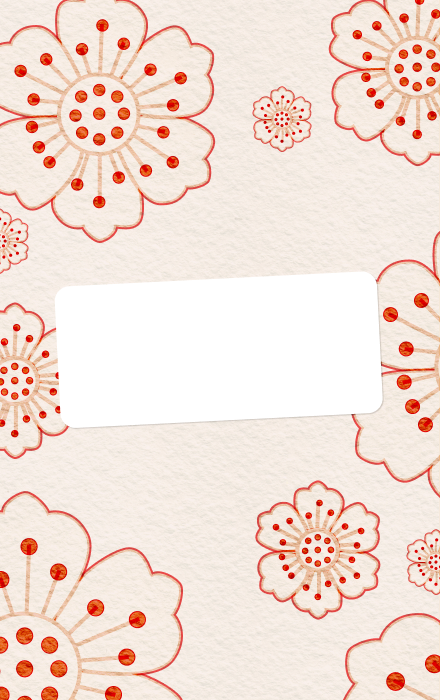
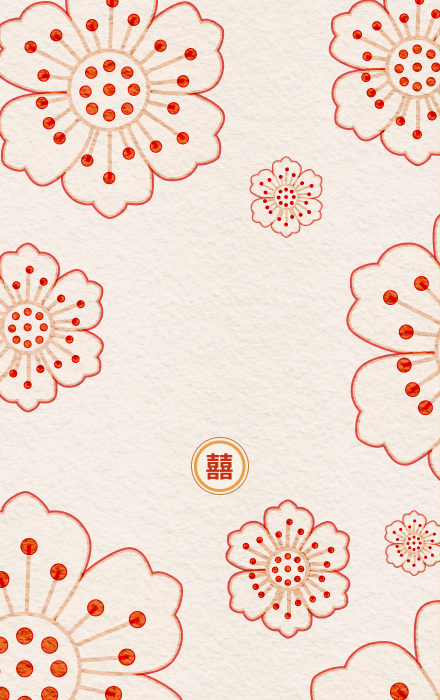
V2

Changed region(s): [[0.0, 0.0, 1.0, 1.0], [0.5614, 0.12, 0.7386, 0.36], [0.6795, 0.96, 0.7386, 1.0]]

diff --git a/index.html b/index.html
@@ -1,25 +1,19 @@
 <!DOCTYPE html>
-<html lang="zh">
+<html lang="fr">
   <head>
     <meta charset="UTF-8" />
     <meta name="viewport" content="width=device-width, initial-scale=1.0" />
     <title>Chinese Wedding Envelope</title>
-    <link href="https://fonts.googleapis.com/css2?family=Noto+Serif+SC:wght@400;700&display=swap" rel="stylesheet" />
-    <link
-      href="https://fonts.googleapis.com/css2?family=Noto+Serif+SC:wght@400;700&family=Fira+Sans:wght@400;700&family=Meow+Script&display=swap"
-      rel="stylesheet"
-    />
-
+    <link href="https://fonts.googleapis.com/css2?family=Meow+Script&display=swap" rel="stylesheet" />
     <script src="https://cdn.tailwindcss.com"></script>
     <script>
+      // Tailwind custom configuration
       tailwind.config = {
         theme: {
           extend: {
             fontFamily: {
               meow: ['"Meow Script"', "cursive"],
-              chinese: ['"Noto Serif SC"', "serif"],
-              kuai: ['"ZCOOL KuaiLe"', "cursive"],
-              futura: ["Futura", '"Fira Sans"', "Arial", "sans-serif"],
+              futura: ["Futura", "Arial", "sans-serif"],
             },
             keyframes: {
               "slide-down-out": {
@@ -52,9 +46,7 @@
     class="min-h-screen flex items-center justify-center bg-[#f5f0eb] bg-center bg-no-repeat bg-cover"
     style="background-image: url('./background.png')"
   >
-    <!-- Petals container -->
     <div class="fixed inset-0 pointer-events-none z-50 petals-container" aria-hidden="true"></div>
-    <!-- Fireworks container -->
     <div class="fixed inset-0 pointer-events-none z-[60] confetti-container" aria-hidden="true"></div>
     <div class="container flex items-center justify-center min-h-screen">
       <div
@@ -67,7 +59,7 @@
           id="flap"
           class="flap absolute top-0 left-0 w-full h-[60px] rounded-t-[4px] z-50 shadow-[0_6px_16px_rgba(0,0,0,0.10)]"
           style="
-            background: linear-gradient(180deg, #921718 80%, #921718 100%);
+            background: linear-gradient(180deg, #871521 80%, #921718 100%);
             transform-origin: top center;
             transform: rotateX(0deg);
             transition: transform 0.7s cubic-bezier(0.77, 0, 0.18, 1);
@@ -82,55 +74,94 @@
             aria-label="Enveloppe hongbao traditionnelle"
           >
             <div class="relative flex items-center justify-center w-full h-full">
-              <!-- Centered text content in the circle -->
               <div id="invitation-block" class="relative z-10 flex flex-col items-center justify-center w-full h-full">
-                <!-- ...existing code... -->
-                <div class="font-meow text-[30px] flex flex-col items-center justify-center text-center">
-                  <h2 class="font-meow text-[20px] sm:text-2xl font-bold text-[#CE412D] tracking-wide">Pour</h2>
-                  <div id="guests-list" class="w-[272px] text-[30px]" style="transform: rotate(-2.88deg)"></div>
+                <div class="flex flex-col items-center justify-center">
+                  <!-- Guests card -->
+                  <div
+                    class="bg-white rounded-[15px] px-6 py-2 shadow font-meow text-[#CE412D] text-[30px] inline-block max-w-[322px]"
+                    style="
+                      display: inline-block;
+                      transform: rotate(-2.88deg);
+                      margin-top: 8px;
+                      margin-bottom: 8px;
+                      min-width: 80px;
+                    "
+                  >
+                    <div class="text-[20px] sm:text-2xl font-bold tracking-wide mb-1 text-center w-full">Pour</div>
+                    <div id="guests-list" class="w-auto text-[30px] break-words text-center"></div>
+                  </div>
                 </div>
-                <!-- ...existing code... -->
               </div>
             </div>
           </div>
-          <!-- ...existing code... -->
-          <!-- ...existing code... -->
           <div
-            class="absolute top-1/2 left-1/2 -translate-x-1/2 -translate-y-1/2 z-30 flex flex-col justify-center items-center"
-            aria-label="Carte d'invitation"
-            style="width: 440px; height: 700px"
+            class="absolute left-1/2 top-1/2 -translate-x-1/2 -translate-y-1/2 flex flex-col items-center justify-center w-[95vw] max-w-[440px] h-[150vw] min-h-[540px] sm:w-[440px] sm:h-[700px] sm:min-h-0"
+            style="z-index: 1; background: url('./invitation_background.png') center/cover no-repeat"
           >
+            <!-- Main invitation card -->
             <div
-              class="absolute top-1/2 left-1/2 -translate-x-1/2 -translate-y-1/2 z-30 flex flex-col justify-center items-center w-[90vw] h-[140vw] max-w-[440px] max-h-[700px] sm:w-[440px] sm:h-[700px]"
-              aria-label="Carte d'invitation"
+              class="relative flex flex-col items-start bg-white rounded-[9px] shadow-lg px-4 pt-12 text-left w-[303px] h-[380px] sm:h-[431px]"
+              style="z-index: 10"
             >
-              <div
-                class="relative flex flex-col justify-center items-center w-full h-full bg-cover bg-center rounded-lg shadow-lg"
-                style="background-image: url('invitation_background.png')"
+              <img
+                src="ruban.svg"
+                alt="Ruban décoratif"
+                style="width: 303px; height: auto; position: absolute; top: -18px; left: 0; z-index: 20"
+                draggable="false"
+              />
+              <h2
+                class="font-meow text-[#CE412D]"
+                style="
+                  font-size: 42px;
+                  transform: rotate(-2.76deg);
+                  margin-top: 32px;
+                  white-space: nowrap;
+                  overflow: visible;
+                  position: relative;
+                  z-index: 30;
+                "
               >
-                <!-- SVG par dessus le fond -->
-                <img
-                  src="texte_invitation.svg"
-                  alt="Texte d'invitation"
-                  class="absolute left-1/2 -translate-x-1/2 object-contain pointer-events-none"
-                  style="top: 15vw; width: 70vw; max-width: 304px; height: auto; z-index: 10"
-                />
-                <!-- Texte par dessus le SVG -->
-                <div
-                  class="absolute left-1/2 -translate-x-1/2 w-[60vw] max-w-[258px] text-left text-[#871521] font-futura bottom-[24vw] sm:bottom-[135px] text-[3vw] sm:text-[12px]"
-                  style="z-index: 20"
+                Charlène & Quentin
+              </h2>
+              <div class="text-[#871521] sm:text-[17px] text-[15px] font-futura leading-[1.2] sm:leading-normal">
+                sont heureux de vous annoncer<br />
+                à leur mariage et vous convient à célébrer ce moment unique à leurs côtés
+              </div>
+              <span
+                class="leading-[1.2] sm:leading-normal block text-[#871521] font-futura text-[17px] select-none"
+                aria-hidden="true"
+              >
+                - - - - -
+              </span>
+              <div class="leading-[1.2] sm:leading-normal text-[#871521] font-futura mb-2">
+                <span style="font-size: 17px">📅 Rendez vous le</span><br />
+                <b style="font-size: 15px">20 Septembre 2025 à 19H00</b><br />
+                <b style="font-size: 15px">à CHINE MASSENA</b><br />
+                <span style="font-size: 12.5px">13 Pl. de Vénétie, 75013 Paris</span>
+              </div>
+              <div class="text-[#871521] text-[12px] font-futura">
+                <a
+                  href="#"
+                  target="_blank"
+                  rel="noopener noreferrer"
+                  class="hover:text-[#CE412D] transition-colors duration-150 no-underline"
+                  style="cursor: pointer; text-decoration: none"
                 >
-                  🎁 Envie de faire plaisir ?<br />
+                  🎁 Envie de faire plaisir sans se casser la tête ?<br />
                   Ça tombe bien : on a créé une cagnotte !
-                </div>
+                </a>
               </div>
             </div>
           </div>
-          <!-- ...existing code... --><!-- ...existing code... -->
         </div>
       </div>
     </div>
     <script>
+      /**
+       * Animation and invitation logic for the wedding envelope.
+       * Handles petals, fireworks, envelope opening, and guest rendering.
+       */
+
       // DOM Elements
       const envelopeContainer = document.querySelector(".envelope-container");
       const envelope = document.getElementById("envelope");
@@ -151,10 +182,17 @@
       const PARTICLES_PER_BURST = 16;
       const FIREWORK_COLORS = ["#fbbf24", "#e11d48", "#f472b6", "#38bdf8", "#34d399", "#f59e42"];
 
-      // Utility: Random item from array
+      /**
+       * Returns a random item from an array.
+       * @param {Array} arr
+       * @returns {*}
+       */
       const getRandomArrayItem = (arr) => arr[Math.floor(Math.random() * arr.length)];
 
-      // --------- PETALS ---------
+      /**
+       * Creates a petal DOM element with random style.
+       * @returns {HTMLDivElement}
+       */
       const createPetalElement = () => {
         const colorClass = getRandomArrayItem(PETAL_COLORS);
         const rotate = Math.floor(Math.random() * 360);
@@ -167,6 +205,10 @@
         return petal;
       };
 
+      /**
+       * Animates a petal falling down the screen.
+       * @param {HTMLDivElement} petal
+       */
       const animatePetal = (petal) => {
         const startLeft = Math.random() * 100;
         const endLeft = startLeft + (Math.random() - 0.5) * 8;
@@ -203,6 +245,9 @@
         requestAnimationFrame(animate);
       };
 
+      /**
+       * Launches a loop of falling petals.
+       */
       const launchPetalsLoop = () => {
         if (!isPetalLooping) return;
         for (let i = 0; i < PETAL_COUNT; i++) {
@@ -215,7 +260,11 @@
         setTimeout(launchPetalsLoop, 2000);
       };
 
-      // --------- FIREWORKS ---------
+      /**
+       * Creates a firework particle DOM element.
+       * @param {string} color
+       * @returns {HTMLDivElement}
+       */
       const createFireworkParticle = (color) => {
         const size = 12 + Math.random() * 8;
         const div = document.createElement("div");
@@ -230,6 +279,9 @@
         return div;
       };
 
+      /**
+       * Launches the fireworks animation.
+       */
       const launchFireworksAnimation = () => {
         const screenWidth = window.innerWidth;
         const screenHeight = window.innerHeight;
@@ -279,7 +331,9 @@
         }
       };
 
-      // --------- ENVELOPE OPEN HANDLER ---------
+      /**
+       * Handles the opening of the envelope (animation, petals, fireworks).
+       */
       const handleOpenEnvelope = () => {
         if (isOpen) return;
         envelopeContainer.classList.add("open");
@@ -295,6 +349,10 @@
         }, 700);
       };
 
+      /**
+       * Handles keyboard accessibility for opening the envelope.
+       * @param {KeyboardEvent} event
+       */
       const handleEnvelopeKeyDown = (event) => {
         if (isOpen) return;
         if (event.key === "Enter" || event.key === " ") {
@@ -306,7 +364,7 @@
       envelopeContainer.addEventListener("click", handleOpenEnvelope);
       envelopeContainer.addEventListener("keydown", handleEnvelopeKeyDown);
 
-      // Flap open transform (moved from CSS to JS for Tailwind-only static)
+      // Observe envelope open state to animate flap
       const observer = new MutationObserver(() => {
         if (envelopeContainer.classList.contains("open")) {
           flap.style.transform = "rotateX(-140deg)";
@@ -318,7 +376,10 @@
       });
       observer.observe(envelopeContainer, { attributes: true, attributeFilter: ["class"] });
 
-      // --------- INVITATION GUESTS DYNAMIC RENDERING ---------
+      /**
+       * Renders the guest list from the URL parameter "invitation".
+       * Handles formatting for 1, 2, or more guests.
+       */
       const renderGuestList = () => {
         const urlParams = new URLSearchParams(window.location.search);
         const invitationParam = urlParams.get("invitation");
@@ -342,17 +403,13 @@
 
         guestsList.innerHTML = guests
           .map((guest, idx) => {
-            // Ajoute une virgule après chaque prénom sauf le dernier et l'avant-dernier
             if (guests.length === 1) {
               return `<span class="inline font-medium text-[#CE412D]">${guest}</span>`;
             } else if (idx === guests.length - 1) {
-              // Dernier prénom, précédé de "et"
               return `<span class="inline font-medium text-[#CE412D]">et ${guest}</span>`;
             } else if (idx === guests.length - 2) {
-              // Avant-dernier prénom, suivi d'un espace
               return `<span class="inline font-medium text-[#CE412D]">${guest} </span>`;
             } else {
-              // Prénoms du début, suivis d'une virgule
               return `<span class="inline font-medium text-[#CE412D]">${guest}, </span>`;
             }
           })
@@ -360,7 +417,11 @@
         invitationBlock.style.display = "";
       };
 
+      // Initial rendering and automatic envelope opening after 2 seconds
       renderGuestList();
+      setTimeout(() => {
+        handleOpenEnvelope();
+      }, 2000);
     </script>
   </body>
 </html>
